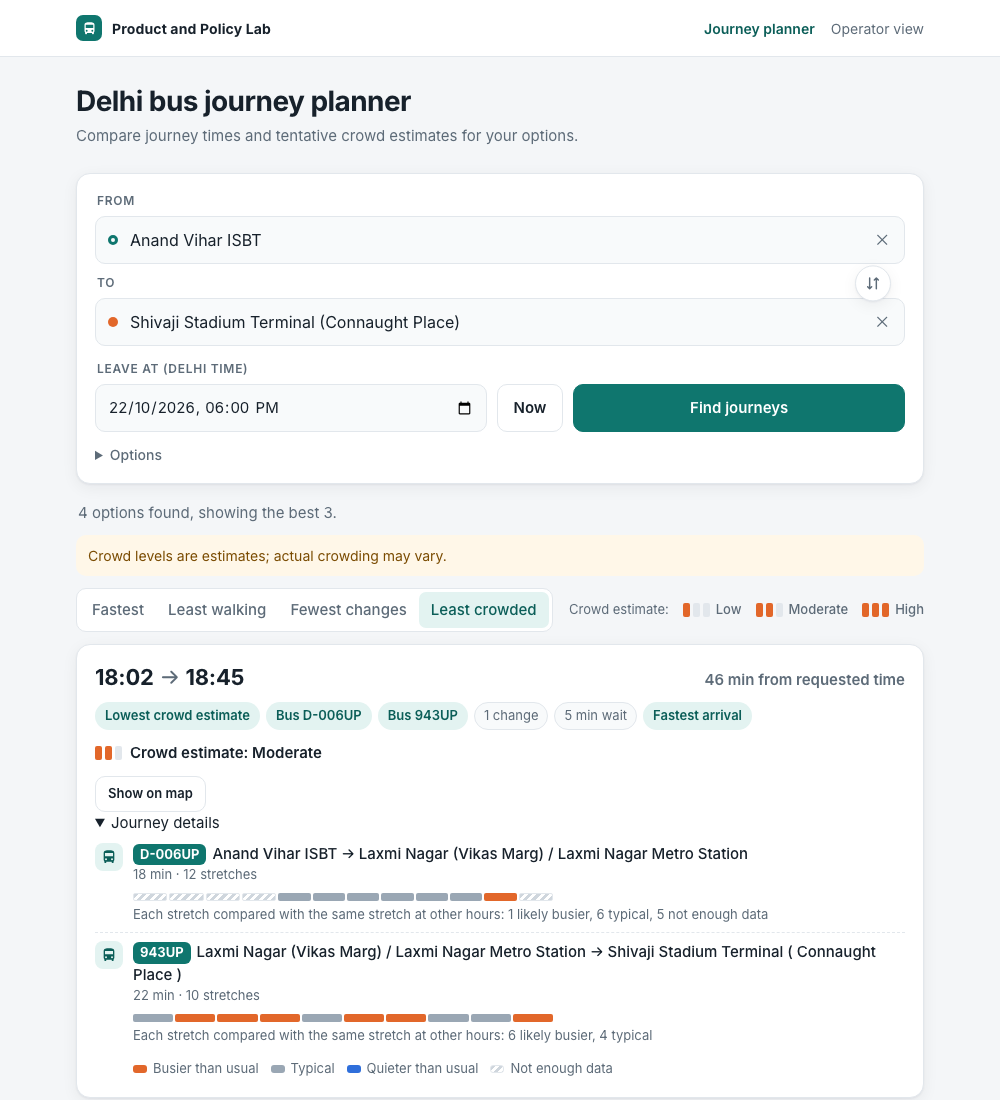
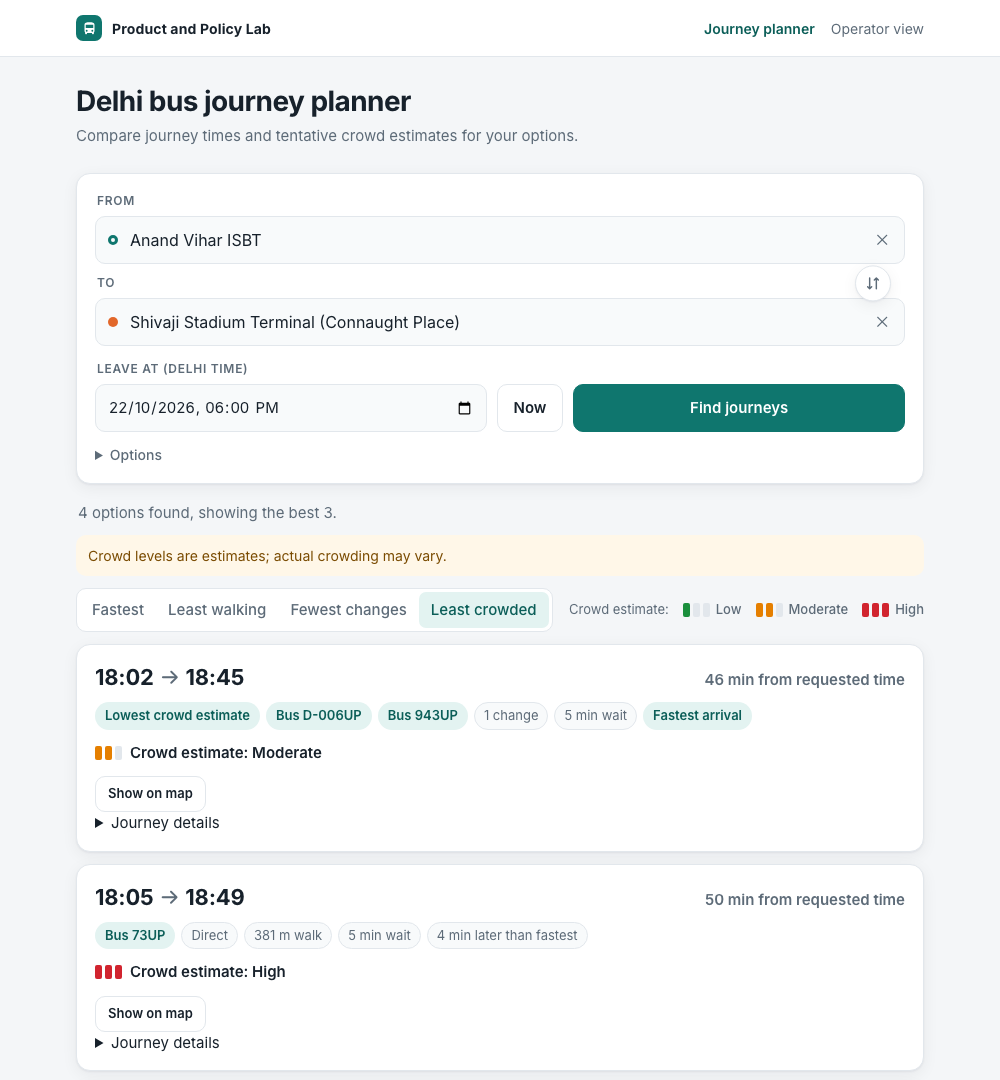
Update README and screenshot for journey-level crowd colours

diff --git a/README.md b/README.md
@@ -9,8 +9,7 @@ A journey planner for Delhi buses that shows, next to each option's travel time,
 ## What it does
 
 - **Plan a journey** between any two stops or places, with walking, waiting and bus times and up to three departures searched.
-- **See a crowd estimate for each option** (Low / Moderate / High) and **sort by least crowded**, so the trade-off between time and comfort is visible at a glance.
-- **See where along a ride it's busier.** Under *Journey details*, each bus has a strip with one block per stretch between stops, compared with the same stretch at other hours.
+- **See a crowd estimate for each option**, colour-coded green (Low), orange (Moderate) or red (High), and **sort by least crowded**, so the trade-off between time and comfort is visible at a glance.
 - **Operator view** (`/operators`): the route stretches and routes with the most mobile-ticket passengers per scheduled bus, by day type and time of day, on a map and in tables.
 
 ![Operator view: highest-pressure stretches on a weekday evening](docs/images/operators.png)
@@ -56,7 +55,7 @@ These agreement figures compare the model with **later ticket patterns**, not wi
 ## Limitations
 
 - **The data covers mobile e-tickets only.** The organisers confirmed it is a subset of riders. Free tickets for women and passes are not in it, and its share of riders may differ by route and hour. Estimates are relative pressure, not passengers on board or seat availability.
-- **Comparing routes assumes similar app use on every route.** The Low / Moderate / High labels, the least-crowded sort and the operator view rely on this, and it has not been verified. Stretch strips compare a stretch only with itself, so they do not depend on it.
+- **Comparing routes assumes similar app use on every route.** The Low / Moderate / High labels, the least-crowded sort and the operator view rely on this, and it has not been verified.
 - **Bus service is the timetable,** not buses that actually ran. Ticket time is treated as boarding time.
 - **Thin evidence is filled from wider pools.** Many journey estimates use route-wide averages for some stretches; missing evidence is shown as *not enough data*, never as quiet.
 - **No independent ground truth yet.** A [field check protocol](docs/field-study/protocol.md) is written, but no counts have been collected. The held-out week has now been used once and is not a fresh test for a revised model.
